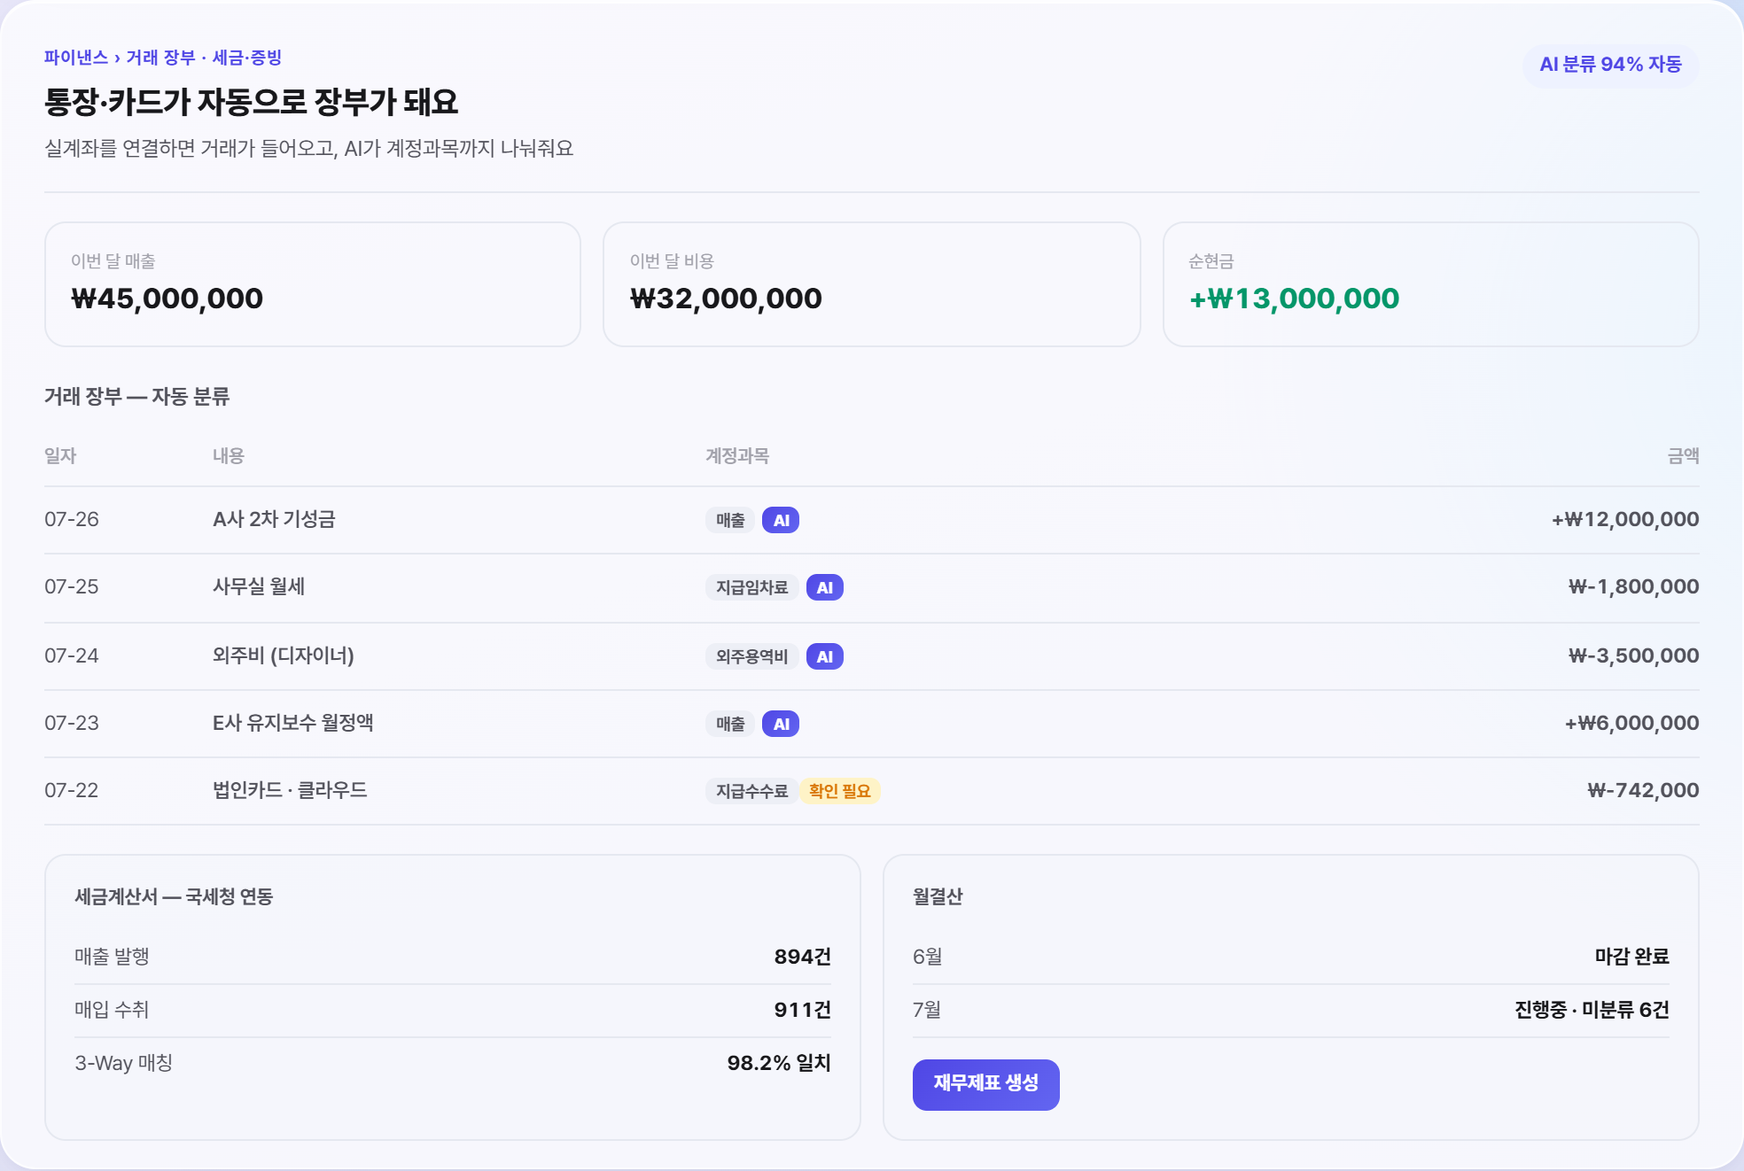
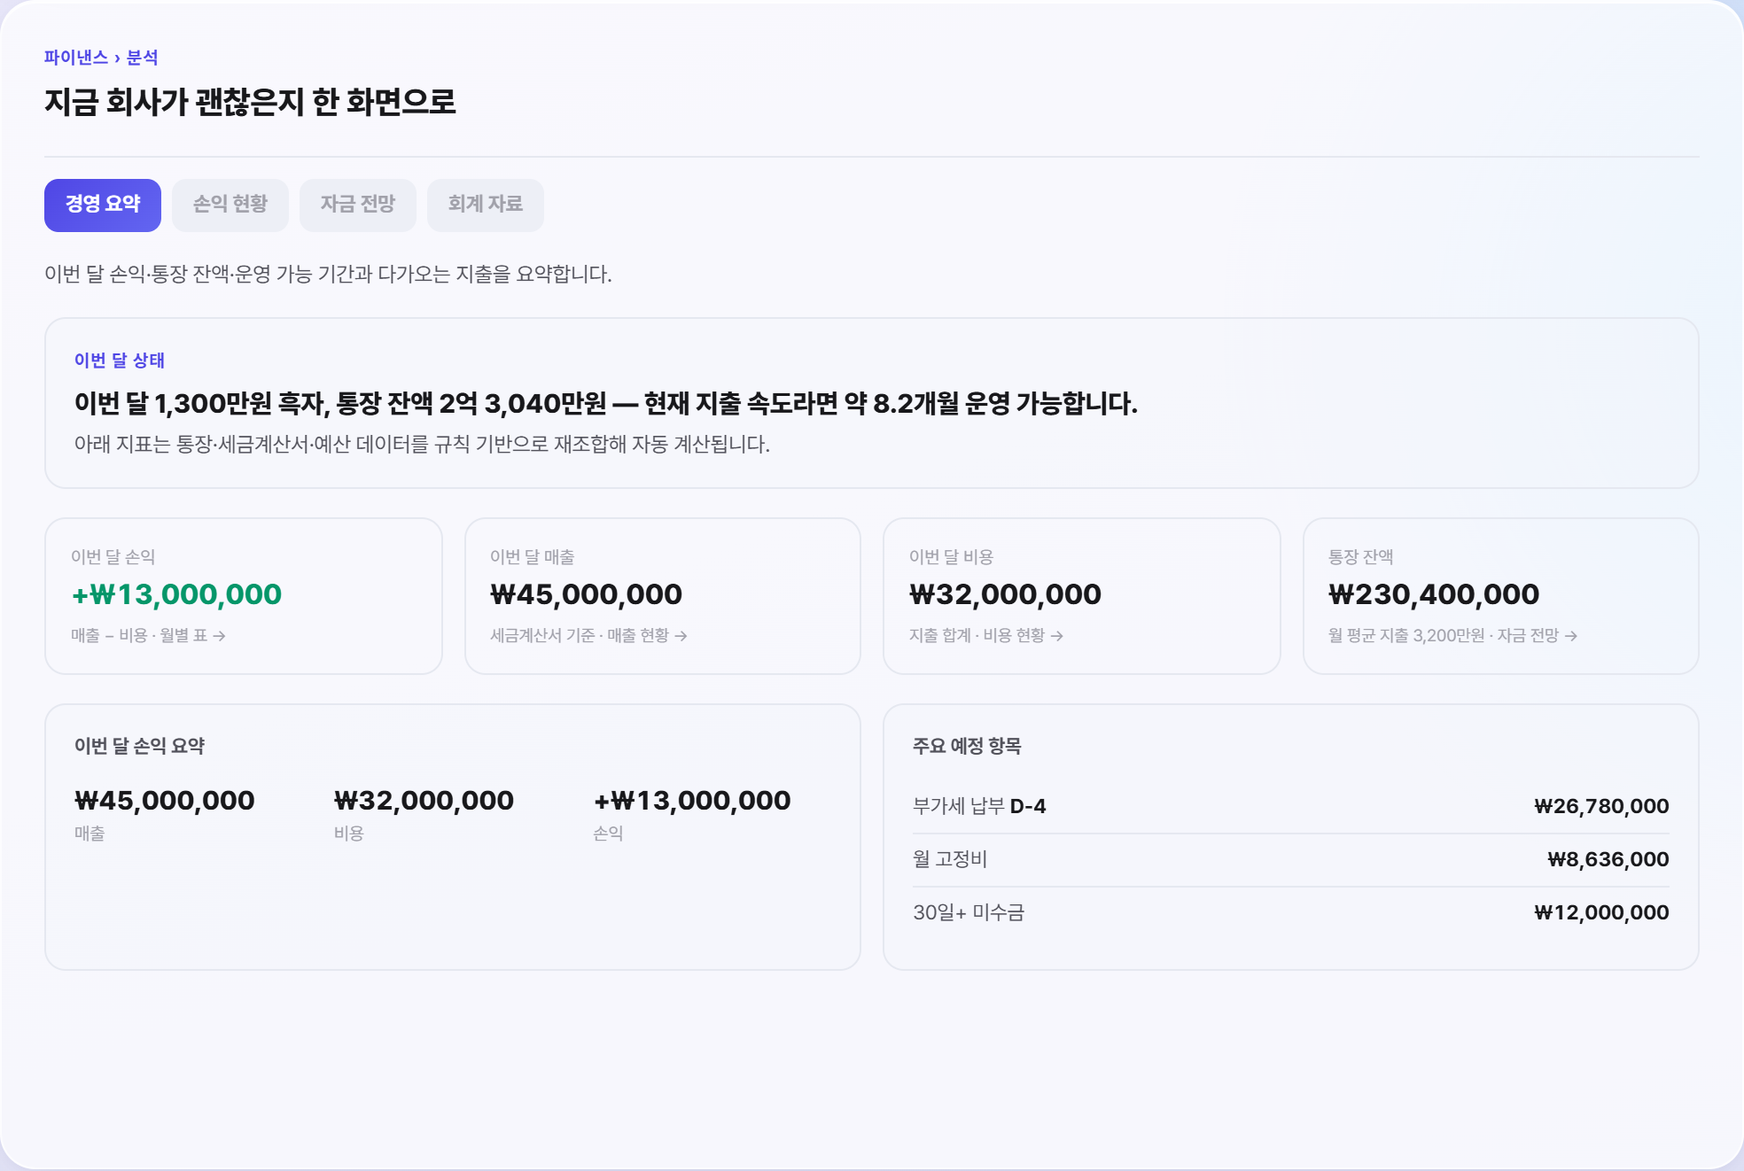
fix(demo): 실화면 대조 후 분석·거래 장부·세금·증빙·정산 4개 화면 재작성
사장님: "아직도 오너뷰 실화면과 다른 화면이 노출된다. 이미지 비교해서 실이미지로 교체 꼭 할 것.
신뢰성 문제기 때문에 필수"

[확인 경로] 프로덕션 실계정으로 직접 열어 대조했다(약관 게이트가 풀려 이번엔 진입 가능).
- /reports · /transactions · /tax-invoices · /partners/reconciliation · /employees ·
  /attendance · /bank · /approvals · /signatures · /projecthub 를 열어 구조를 수집.
- ⚠ 실계정 화면에는 실제 거래처명·매출·직원 이름이 들어 있어 그대로 랜딩에 올릴 수 없다
  (공개 시 거래정보·개인정보 노출). 그래서 "구조만" 가져와 데모 패널을 실물과 같게 다시 만들고
  값만 가상 데이터로 채웠다. 대조에 쓴 실계정 캡처·스크립트는 전부 삭제했다.

[차이] 실물과 크게 어긋나 있던 4개
- 분석: 실제는 하위 탭 4개(경영 요약|손익 현황|자금 전망|회계 자료) + "이번 달 상태" 문장 카드 +
  KPI 4장(이번 달 손익/매출/비용/통장 잔액) + 손익 요약·주요 예정 항목.
  데모엔 하위 탭도 상태 카드도 없었다.
- 거래 장부: 실제는 표가 아니라 카드 리스트다. 하위 탭(자동 분류|입금 매칭) 아래
  내부 탭(미분류 정리 N|분류 규칙), 안내 배너, 필터바 + "AI 추천 받기" 버튼,
  거래 카드(아이콘·거래처·날짜·계좌·미매핑 태그·금액). 데모는 통째로 테이블이었다.
- 세금·증빙: 실제는 홈택스 동기화 바 + 내부 탭(매출|매입|자동발행|기간별 집계) +
  KPI 4장(보조 라인 포함) + 점검 리포트 + 합계 바 + 표(작성일자·승인번호·상호(거래처)·
  공급가액·세액·상태). 데모엔 점검 리포트가 없고 컬럼이 달랐다.
- 정산: 실제 컬럼은 거래일자·구분·입금자/거래처·거래금액·발행일자·계산서 거래처·계산서 금액·
  정산액·유형·신뢰도·처리. 데모는 3장 카드였다 → 대조 표로 교체하고 신뢰도 컬럼을 넣었다.

[구현] _components/real-frames.tsx 신설 — 4개 화면을 before/after 한 컴포넌트로 만들어
  랜딩의 "처리 전 → 처리 후" 전환에 그대로 쓴다. 캡처 파일명은 기존과 같게 덮어써
  content.ts 수정 없이 반영된다(f-acct/f-bank/f-tax/f-settlement + -b).

검증: 캡처 8장 전부 660px 프레임 안에 잘림 없이(cut 0) 들어감, build green

diff --git a/src/app/demo/_components/real-frames.tsx b/src/app/demo/_components/real-frames.tsx
@@ -1,0 +1,246 @@
+"use client";
+
+// /demo — 실화면 대조 후 재작성한 패널 (2026-07-28).
+//   ⚠ 아래 4개는 프로덕션 실화면(관리자 계정)을 직접 열어 구조를 대조하고 다시 만든 것이다.
+//      하위 탭 / 내부 탭 / 요약 카드 라벨 / 표 컬럼 / 안내 배너 위치까지 실제와 같게 맞췄다.
+//      값(거래처명·금액·직원명)만 데모용 가상 데이터로 바꿨다 — 실계정 값은 공개하면 안 된다.
+//   ⚠ 실화면이 바뀌면 여기도 같이 고칠 것. 근거 라우트:
+//        분석      → src/app/(app)/reports          (경영 요약 | 손익 현황 | 자금 전망 | 회계 자료)
+//        거래 장부 → src/app/(app)/transactions     (자동 분류 | 입금 매칭 → 미분류 정리 | 분류 규칙)
+//        세금·증빙 → src/app/(app)/tax-invoices     (세금계산서 | 현금영수증 → 매출 | 매입 | 자동발행 | 기간별 집계)
+//        정산      → src/app/(app)/partners/reconciliation
+
+function Head({ crumb, title, sub, tabs }: { crumb: string; title: string; sub: string; tabs: string[] }) {
+  return (
+    <>
+      <div className="pp-head">
+        <div className="pp-head-l">
+          <div className="pp-menu">{crumb}</div>
+          <div className="pp-title">{title}</div>
+        </div>
+      </div>
+      <div className="pp-subtabs">
+        {tabs.map((t, i) => (
+          <span key={t} className={`pp-subtab ${i === 0 ? "pp-subtab-on" : ""}`}>{t}</span>
+        ))}
+      </div>
+      <div className="pp-sub pp-mt">{sub}</div>
+    </>
+  );
+}
+
+// ── 분석 › 경영 요약 (/reports) ───────────────────────────────
+export function AnalyticsPanel({ before = false }: { before?: boolean }) {
+  const v = (x: string) => (before ? "—" : x);
+  return (
+    <section className="pp glass-card" id={before ? "pp-analytics-b" : "pp-analytics"}>
+      <Head
+        crumb="파이낸스 › 분석"
+        title="지금 회사가 괜찮은지 한 화면으로"
+        sub="이번 달 손익·통장 잔액·운영 가능 기간과 다가오는 지출을 요약합니다."
+        tabs={["경영 요약", "손익 현황", "자금 전망", "회계 자료"]}
+      />
+
+      <div className="pp-sub-card pp-mt">
+        <div className="pp-menu">이번 달 상태</div>
+        <div className="pp-state-line">
+          {before
+            ? "통장·세금계산서·예산 데이터를 모으는 중이에요."
+            : "이번 달 1,300만원 흑자, 통장 잔액 2억 3,040만원 — 현재 지출 속도라면 약 8.2개월 운영 가능합니다."}
+        </div>
+        <div className="pp-sub">아래 지표는 통장·세금계산서·예산 데이터를 규칙 기반으로 재조합해 자동 계산됩니다.</div>
+      </div>
+
+      <div className="pp-grid4 pp-mt">
+        <div className="pp-mini pp-mini-ok"><span>이번 달 손익</span><b>{v("+₩13,000,000")}</b><i>매출 − 비용 · 월별 표 →</i></div>
+        <div className="pp-mini"><span>이번 달 매출</span><b>{v("₩45,000,000")}</b><i>세금계산서 기준 · 매출 현황 →</i></div>
+        <div className="pp-mini"><span>이번 달 비용</span><b>{v("₩32,000,000")}</b><i>지출 합계 · 비용 현황 →</i></div>
+        <div className="pp-mini"><span>통장 잔액</span><b>{v("₩230,400,000")}</b><i>월 평균 지출 3,200만원 · 자금 전망 →</i></div>
+      </div>
+
+      <div className="pp-grid2 pp-mt">
+        <div className="pp-sub-card">
+          <div className="pp-sub-t">이번 달 손익 요약</div>
+          <div className="pp-grid3">
+            <div className="pp-stat"><b>{v("₩45,000,000")}</b><span>매출</span></div>
+            <div className="pp-stat"><b>{v("₩32,000,000")}</b><span>비용</span></div>
+            <div className="pp-stat"><b>{v("+₩13,000,000")}</b><span>손익</span></div>
+          </div>
+        </div>
+        <div className="pp-sub-card">
+          <div className="pp-sub-t">주요 예정 항목</div>
+          <div className="pp-payroll">
+            <div className="pp-pay-row"><span>부가세 납부 <b className="pp-dim">D-4</b></span><b>{v("₩26,780,000")}</b></div>
+            <div className="pp-pay-row"><span>월 고정비</span><b>{v("₩8,636,000")}</b></div>
+            <div className="pp-pay-row"><span>30일+ 미수금</span><b>{v("₩12,000,000")}</b></div>
+          </div>
+        </div>
+      </div>
+    </section>
+  );
+}
+
+// ── 파이낸스 › 거래 장부 (/transactions) ──────────────────────
+const LEDGER_ROWS = [
+  { n: "(주)하늘건설", d: "2026-07-27", acc: "운영계좌", amt: "+₩12,000,000", io: "in" },
+  { n: "블루윙 스튜디오", d: "2026-07-27", acc: "운영계좌", amt: "-₩3,500,000", io: "out" },
+  { n: "네이버 광고", d: "2026-07-26", acc: "법인카드", amt: "-₩1,650,000", io: "out" },
+  { n: "사무실 월세", d: "2026-07-25", acc: "운영계좌", amt: "-₩1,800,000", io: "out" },
+];
+
+export function LedgerPanel({ before = false }: { before?: boolean }) {
+  return (
+    <section className="pp glass-card" id={before ? "pp-ledger-b" : "pp-ledger"}>
+      <Head
+        crumb="파이낸스 › 거래 장부"
+        title="은행 거래를 계정과목으로 자동 분류합니다"
+        sub="미분류 거래를 한 번에 정리하고, 반복되는 건은 규칙으로 남겨요."
+        tabs={["자동 분류", "입금 매칭"]}
+      />
+
+      <div className="pp-inner-tabs pp-mt">
+        <span className="pp-inner-tab pp-inner-tab-on">미분류 정리 ({before ? "128" : "0"})</span>
+        <span className="pp-inner-tab">분류 규칙</span>
+      </div>
+
+      <div className="pp-notice">
+        <span>💡 입금 건은 여기서 분류하기보다 <b>거래 매칭</b>에서 세금계산서와 정산하면 미수금 차감·회계 전표가 자동 처리됩니다.</span>
+        <span className="pp-btn">거래 매칭에서 정산 →</span>
+      </div>
+
+      <div className="pp-filter">
+        <span className="pp-chip-on">날짜순 ↓</span>
+        <span className="pp-chip-off">거래처순</span>
+        <span className="pp-chip-input">거래처 검색</span>
+        <span className="pp-btn pp-btn-ai">✦ AI 추천 받기</span>
+      </div>
+
+      <div className="pp-txlist">
+        {LEDGER_ROWS.map((t) => (
+          <div key={t.n + t.d} className="pp-tx">
+            <span className={`pp-tx-ico ${t.io === "in" ? "pp-tx-in" : "pp-tx-out"}`}>{t.io === "in" ? "↗" : "↘"}</span>
+            <span className="pp-tx-body">
+              <b>{t.n}</b>
+              <i>
+                {t.d} · {t.acc}
+                {before
+                  ? <span className="pp-tag pp-tag-w">미매핑</span>
+                  : <span className="pp-tag pp-tag-s">{t.io === "in" ? "외상매출금" : "광고선전비"}<span className="pp-ai">AI</span></span>}
+              </i>
+            </span>
+            <span className={`pp-tx-amt ${t.io === "in" ? "pp-in" : "pp-out"}`}>{t.amt}</span>
+          </div>
+        ))}
+      </div>
+    </section>
+  );
+}
+
+// ── 파이낸스 › 세금·증빙 (/tax-invoices) ──────────────────────
+const TAX_ROWS = [
+  { d: "2026-07-24", no: "20260724-1026072...", p: "(주)하늘건설", item: "사옥 리뉴얼 2차 기성", s: "252,000,000", t: "25,200,000", sum: "277,200,000", st: "발행" },
+  { d: "2026-07-22", no: "20260722-1026072...", p: "블루윙 스튜디오", item: "외주 디자인 용역", s: "31,800,000", t: "3,180,000", sum: "34,980,000", st: "발행" },
+];
+
+export function TaxRealPanel({ before = false }: { before?: boolean }) {
+  const v = (x: string) => (before ? "—" : x);
+  return (
+    <section className="pp glass-card" id={before ? "pp-taxr-b" : "pp-taxr"}>
+      <Head
+        crumb="파이낸스 › 세금·증빙"
+        title="매출·매입 세금계산서 내역과 부가세를 관리합니다"
+        sub="홈택스와 연동해 매출·매입을 자동으로 수집하고, 계약·입금과 대조해요."
+        tabs={["세금계산서", "현금영수증"]}
+      />
+
+      <div className="pp-syncbar pp-mt">
+        <span>↻ 홈택스 동기화 · {before ? "수집 중" : "연결됨"}</span>
+        <span className="pp-btn">+ 세금계산서 등록</span>
+      </div>
+
+      <div className="pp-inner-tabs">
+        <span className="pp-inner-tab pp-inner-tab-on">매출 ({before ? "…" : "62"})</span>
+        <span className="pp-inner-tab">매입 ({before ? "…" : "48"})</span>
+        <span className="pp-inner-tab">자동발행</span>
+        <span className="pp-inner-tab">기간별 집계</span>
+      </div>
+
+      <div className="pp-grid4">
+        <div className="pp-mini"><span>조회기간 매출</span><b>{v("₩343,200,000")}</b><i>{before ? "" : "62건 (공급가 ₩312,000,000)"}</i></div>
+        <div className="pp-mini"><span>조회기간 매입</span><b>{v("₩48,620,000")}</b><i>{before ? "" : "48건 (공급가 ₩44,200,000)"}</i></div>
+        <div className="pp-mini"><span>딜 미연결 건수</span><b>{v("2건")}</b><i>{before ? "" : "전체 110건 중 딜 자동연결 안 됨"}</i></div>
+        <div className="pp-mini pp-mini-ok"><span>예상 부가세 납부액</span><b>{v("₩26,780,000")}</b><i>{before ? "" : "납부 예정 (매출세액 − 매입세액)"}</i></div>
+      </div>
+
+      <div className="pp-sub-card pp-mt">
+        <div className="pp-sub-t">🔎 점검 리포트</div>
+        <div className="pp-payroll">
+          <div className="pp-pay-row"><span>딜 미연결 <i className="pp-dim">거래/입금 매칭 필요</i></span><b>{v("2건")}</b></div>
+        </div>
+      </div>
+
+      <div className="pp-section-t">총 {before ? "—" : "110건"} · 공급가액 {v("₩356,200,000")} · 세액 {v("₩35,620,000")}</div>
+      <table className="pp-table">
+        <thead><tr><th>작성일자</th><th>승인번호</th><th>상호(거래처)</th><th>공급가액</th><th>세액</th><th>상태</th></tr></thead>
+        <tbody>
+          {TAX_ROWS.map((r) => (
+            <tr key={r.d + r.p}>
+              <td>{before ? "—" : r.d}</td>
+              <td>{before ? "—" : r.no}</td>
+              <td className="pp-strong">{before ? "—" : r.p}</td>
+              <td className="pp-num">{before ? "—" : "₩" + r.s}</td>
+              <td className="pp-num">{before ? "—" : "₩" + r.t}</td>
+              <td><span className={`pp-tag ${before ? "pp-tag-n" : r.st === "발행" ? "pp-tag-s" : "pp-tag-w"}`}>{before ? "수집 중" : r.st}</span></td>
+            </tr>
+          ))}
+        </tbody>
+      </table>
+    </section>
+  );
+}
+
+// ── 파이낸스 › 거래 장부 › 입금 매칭 (/partners/reconciliation) ─
+const REC_ROWS = [
+  { d: "2026-07-24", k: "입금", p: "(주)하늘건설", amt: "₩277,200,000", id: "2026-07-24", ip: "(주)하늘건설", iamt: "₩277,200,000", set: "₩277,200,000", t: "완전 일치", c: "99%" },
+  { d: "2026-07-22", k: "입금", p: "메이커스랩", amt: "₩66,000,000", id: "2026-07-20", ip: "메이커스랩", iamt: "₩66,000,000", set: "₩66,000,000", t: "완전 일치", c: "98%" },
+  { d: "2026-07-21", k: "입금", p: "한빛 소재", amt: "₩4,200,000", id: "—", ip: "—", iamt: "—", set: "—", t: "계산서 없음", c: "42%" },
+];
+
+export function ReconPanel({ before = false }: { before?: boolean }) {
+  return (
+    <section className="pp glass-card" id={before ? "pp-recon-b" : "pp-recon"}>
+      <Head
+        crumb="파이낸스 › 거래 장부"
+        title="입금과 세금계산서를 맞춰 수금을 확정합니다"
+        sub="세 금액이 맞으면 미수금이 차감되고 회계 전표까지 자동으로 만들어져요."
+        tabs={["자동 분류", "입금 매칭"]}
+      />
+      <div className="pp-grid3 pp-mt">
+        <div className="pp-mini"><span>매칭 대기</span><b>{before ? "—" : "3건"}</b></div>
+        <div className="pp-mini pp-mini-ok"><span>자동 매칭</span><b>{before ? "—" : "2건"}</b></div>
+        <div className="pp-mini"><span>확인 필요</span><b>{before ? "—" : "1건"}</b></div>
+      </div>
+      <div className="pp-section-t">거래 / 계산서 대조 <span className="pp-ai">AI 매칭</span></div>
+      <table className="pp-table">
+        <thead>
+          <tr><th>거래일자</th><th>입금자/거래처</th><th>거래금액</th><th>계산서 금액</th><th>유형</th><th>신뢰도</th></tr>
+        </thead>
+        <tbody>
+          {REC_ROWS.map((r, i) => (
+            <tr key={i}>
+              <td>{r.d}</td>
+              <td className="pp-strong">{r.p}</td>
+              <td className="pp-num">{r.amt}</td>
+              <td className="pp-num">{before ? "확인 중…" : r.iamt}</td>
+              <td><span className={`pp-tag ${before ? "pp-tag-n" : r.t === "완전 일치" ? "pp-tag-s" : "pp-tag-w"}`}>{before ? "대조 중" : r.t}</span></td>
+              <td>{before ? "—" : r.c}</td>
+            </tr>
+          ))}
+        </tbody>
+      </table>
+      <div className="pp-alert">
+        {before ? "입금과 세금계산서를 맞춰보는 중이에요." : "2건이 완전 일치해 미수금이 차감되고 전표가 만들어졌어요. 1건은 계산서가 없어 확인이 필요해요."}
+      </div>
+    </section>
+  );
+}

diff --git a/src/app/globals.css b/src/app/globals.css
@@ -1443,6 +1443,34 @@ thead th { white-space: nowrap; word-break: keep-all; }
 .pp-msg p { @apply text-[11.5px] text-[var(--text)] leading-relaxed; }
 .pp-msg-input { @apply mt-1 px-3 py-2 rounded-xl border border-[var(--border)] text-[11px] text-[var(--text-dim)]; }
 
+
+/* ── /demo 실화면 대조 패널 (2026-07-28) — 실제 라우트의 하위 탭·필터바·거래 카드 리스트 재현 ── */
+.pp-inner-tabs { @apply flex items-center gap-1.5 mb-3; }
+.pp-inner-tab { @apply px-3 py-1.5 rounded-lg text-[11.5px] font-bold text-[var(--text-dim)] bg-[var(--bg-surface)]; }
+.pp-inner-tab-on { @apply text-white; background: linear-gradient(135deg, var(--primary), var(--primary-soft)); }
+.pp-notice { @apply flex items-center justify-between gap-3 flex-wrap px-4 py-3 rounded-xl mb-3
+  text-[11.5px] font-semibold bg-[var(--primary-light)] text-[var(--primary)]; }
+.pp-filter { @apply flex items-center gap-2 flex-wrap mb-3; }
+.pp-chip-on { @apply px-3 py-1.5 rounded-lg text-[11px] font-bold text-white; background: linear-gradient(135deg, var(--primary), var(--primary-soft)); }
+.pp-chip-off { @apply px-3 py-1.5 rounded-lg text-[11px] font-bold text-[var(--text-dim)] bg-[var(--bg-surface)]; }
+.pp-chip-input { @apply flex-1 min-w-[120px] px-3 py-1.5 rounded-lg text-[11px] text-[var(--text-dim)] border border-[var(--border)]; }
+.pp-btn-ai { @apply ml-auto; }
+.pp-txlist { @apply flex flex-col gap-2; }
+.pp-tx { @apply flex items-center gap-3 px-4 py-3 rounded-2xl border border-[var(--border)] bg-[var(--bg-card)]; }
+.pp-tx-ico { @apply w-8 h-8 rounded-full flex items-center justify-center text-[13px] font-bold shrink-0; }
+.pp-tx-in { @apply bg-[var(--success-dim)] text-[var(--success)]; }
+.pp-tx-out { @apply bg-[var(--danger-dim)] text-[var(--danger)]; }
+.pp-tx-body { @apply flex-1 min-w-0 flex flex-col; }
+.pp-tx-body b { @apply text-[12.5px] font-bold text-[var(--text)]; }
+.pp-tx-body i { @apply not-italic text-[10.5px] text-[var(--text-dim)] flex items-center gap-1.5 mt-0.5; }
+.pp-tx-amt { @apply text-[13px] font-extrabold shrink-0; font-variant-numeric: tabular-nums; }
+.pp-syncbar { @apply flex items-center justify-between gap-3 px-4 py-2.5 rounded-xl mb-3
+  text-[11.5px] font-semibold text-[var(--text-muted)] border border-[var(--border)]; }
+.pp-state-line { @apply text-[15px] font-extrabold text-[var(--text)] mt-1.5; }
+.pp-grid4 { @apply grid grid-cols-2 md:grid-cols-4 gap-3; }
+.pp-mini i { @apply not-italic text-[9.5px] text-[var(--text-dim)] mt-1; }
+.pp-dim { @apply text-[var(--text-dim)] font-normal; }
+
 /* ── /demo 프로젝트 흐름 패널 (2026-07-27) — 랜딩 "견적부터 정산까지" 모션 섹션의 캡처 소스 ── */
 .flow-panel { @apply mb-5 p-6; }
 .flow-head { @apply flex items-start justify-between gap-4 flex-wrap; }

diff --git a/src/app/demo/page.tsx b/src/app/demo/page.tsx
@@ -18,6 +18,7 @@ import {
   ProjectsBeforePanel, HrBeforePanel, MembersBeforePanel, LeaveBeforePanel,
   AcctBeforePanel, BankBeforePanel, TaxBeforePanel,
 } from "./_components/before-frames";
+import { AnalyticsPanel, LedgerPanel, TaxRealPanel, ReconPanel } from "./_components/real-frames";
 
 // ── Constants ──
 
@@ -787,9 +788,9 @@ export default function DemoPage() {
           </>)}
 
           {/* ═══ 메뉴별 화면 — 사이드바에서 고른 메뉴 하나만 (?all=1 이면 전부) ═══ */}
-          {show("flow") && <FlowPanel />}
+          {show("flow") && <AnalyticsPanel />}
           {show("leave") && <HrPanel />}
-          {show("ledger") && <AccountPanel />}
+          {show("ledger") && <LedgerPanel />}
           {show("partners") && <PartnersPanel />}
           {show("voucher") && <VoucherPanel />}
           {show("schedule") && <SchedulePanel />}
@@ -809,7 +810,7 @@ export default function DemoPage() {
           {(show("projects") || capAll) && <SettlementPanel />}
           {show("members") && <MembersPanel />}
           {(show("leave") || capAll) && <LeavePanel />}
-          {show("tax") && <TaxPanel />}
+          {show("tax") && <TaxRealPanel />}
           {/* 랜딩 "처리 전 → 처리 후" 크로스페이드용 앞 상태 — 캡처 모드에서만 렌더 */}
           {capAll && <EstimateBeforePanel />}
           {capAll && <SettlementBeforePanel />}
@@ -820,6 +821,11 @@ export default function DemoPage() {
           {capAll && <AcctBeforePanel />}
           {capAll && <BankBeforePanel />}
           {capAll && <TaxBeforePanel />}
+          {capAll && <AnalyticsPanel before />}
+          {capAll && <LedgerPanel before />}
+          {capAll && <TaxRealPanel before />}
+          {capAll && <ReconPanel />}
+          {capAll && <ReconPanel before />}
           {show("copilot") && <CopilotPanel />}
           {(show("copilot") || capAll) && <BriefPanel />}
           {(show("approvals") || capAll) && <OcrPanel />}
